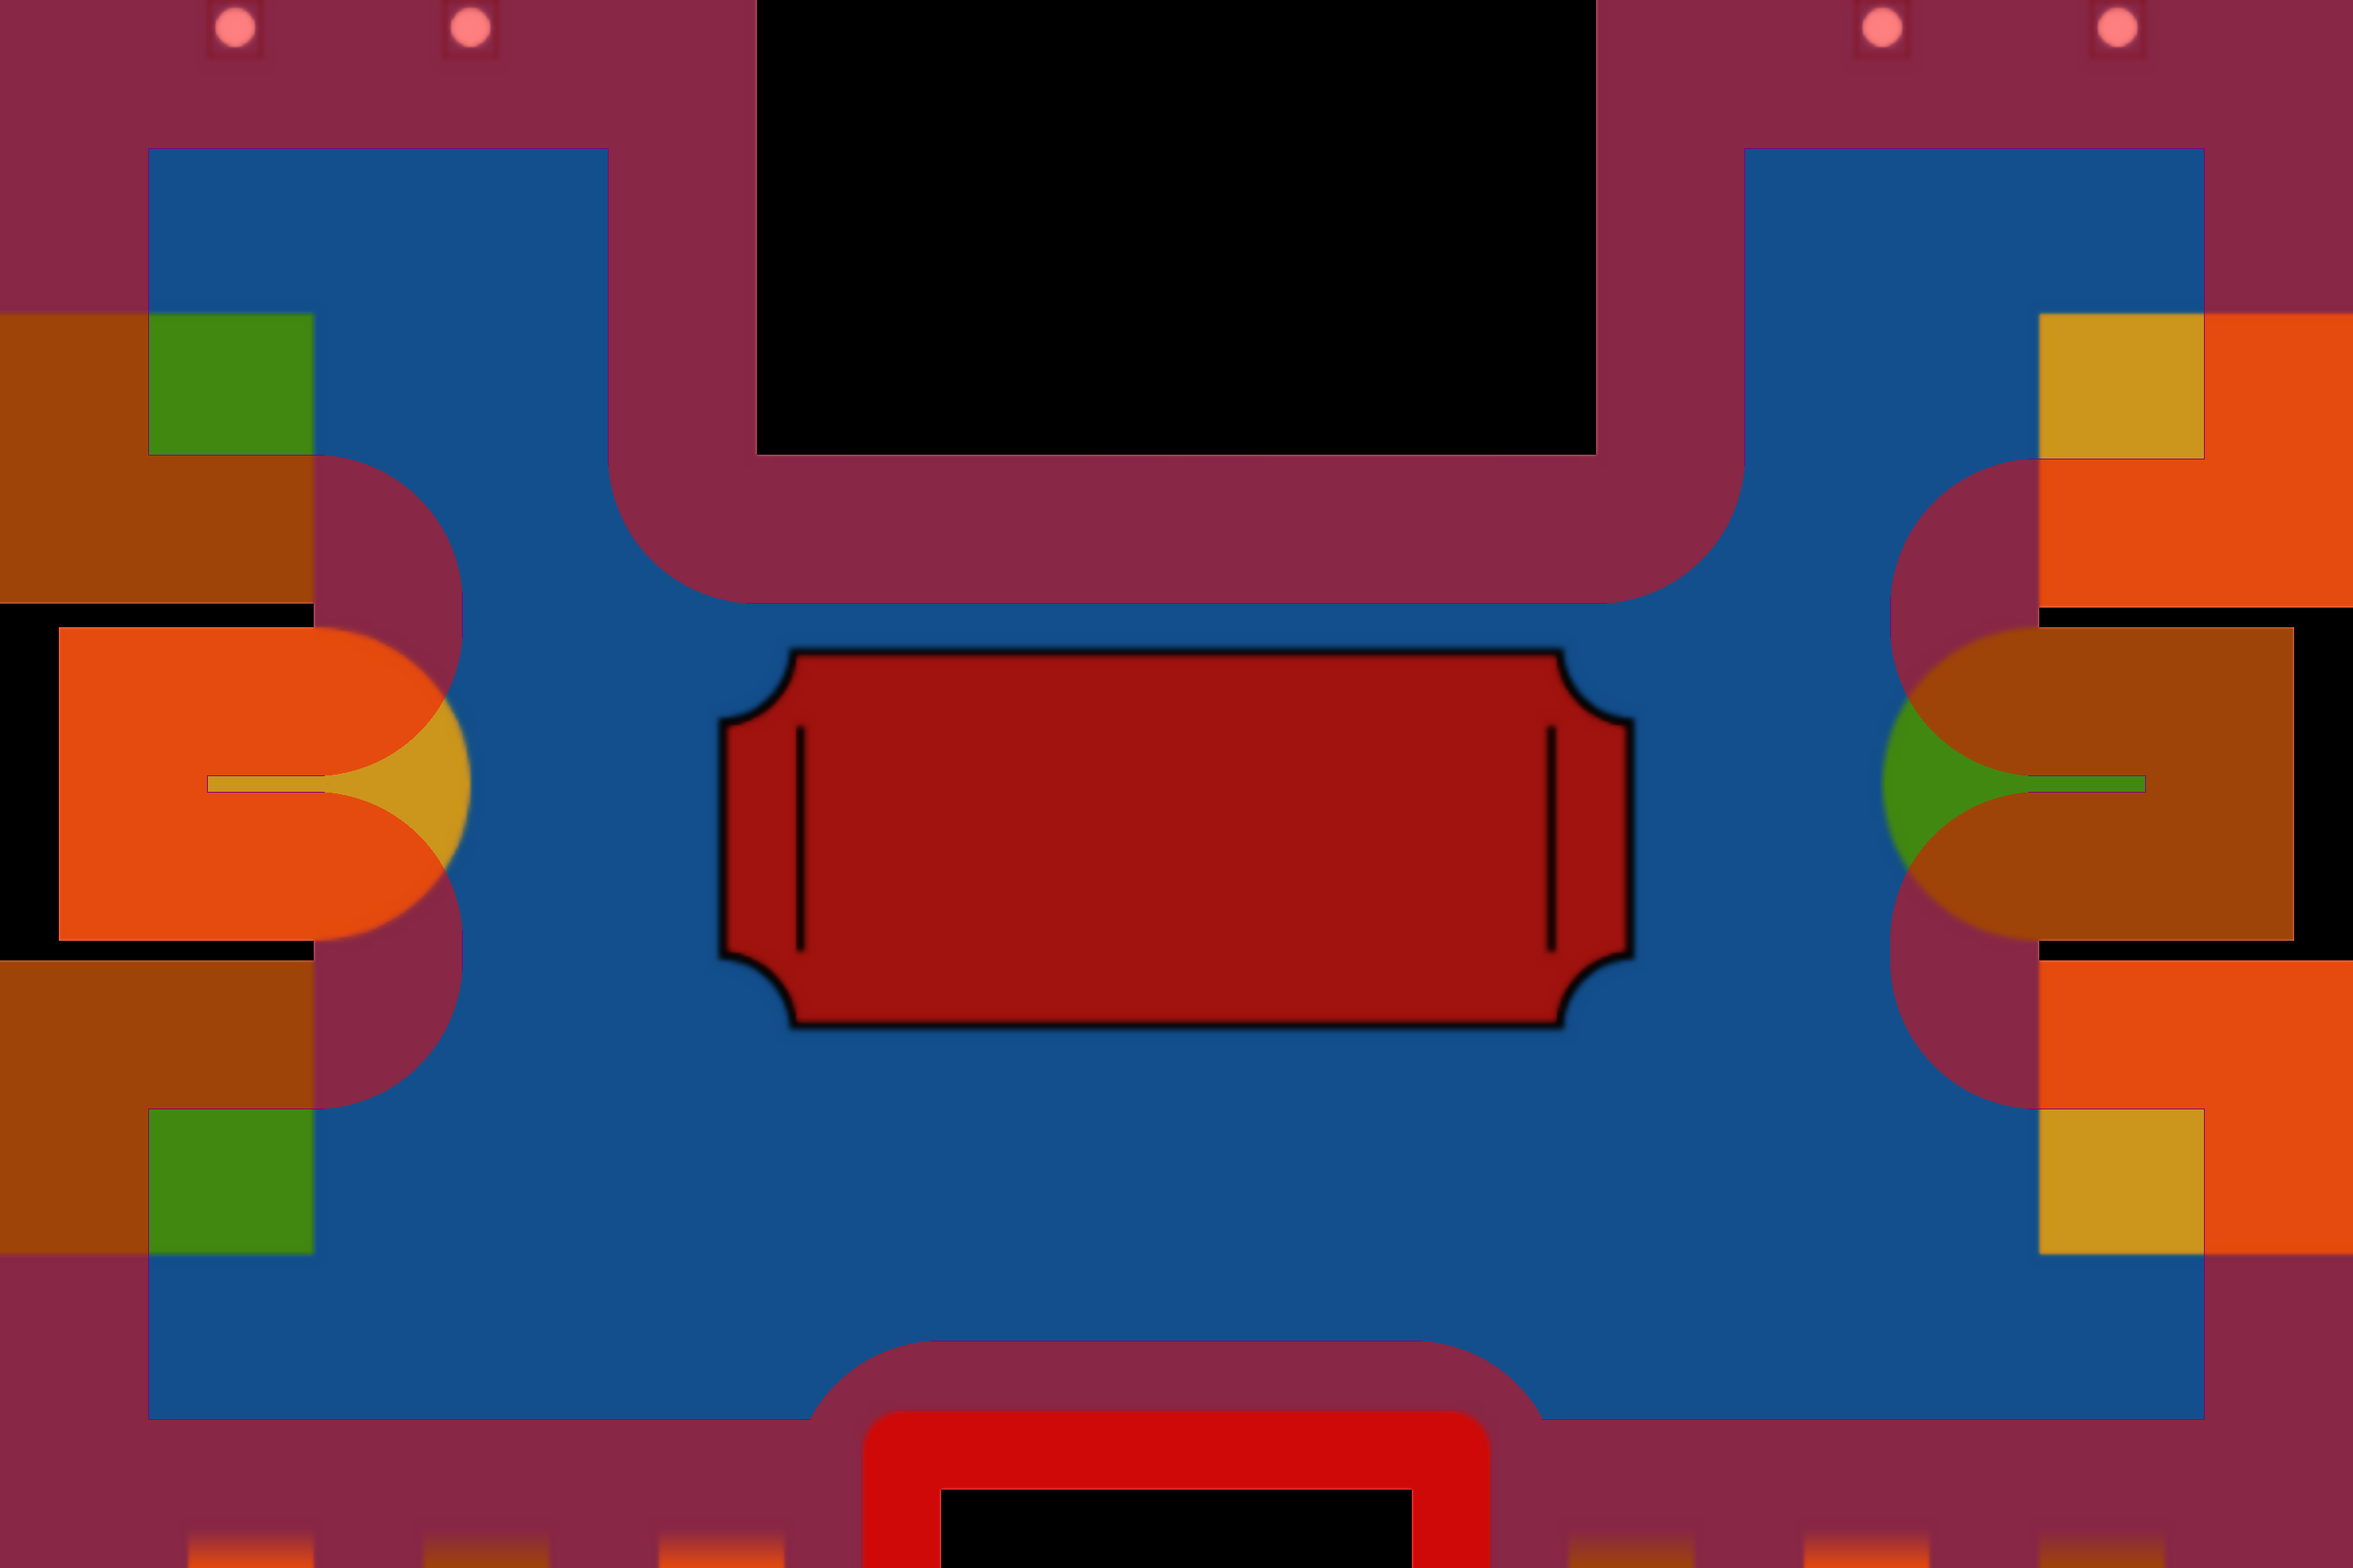
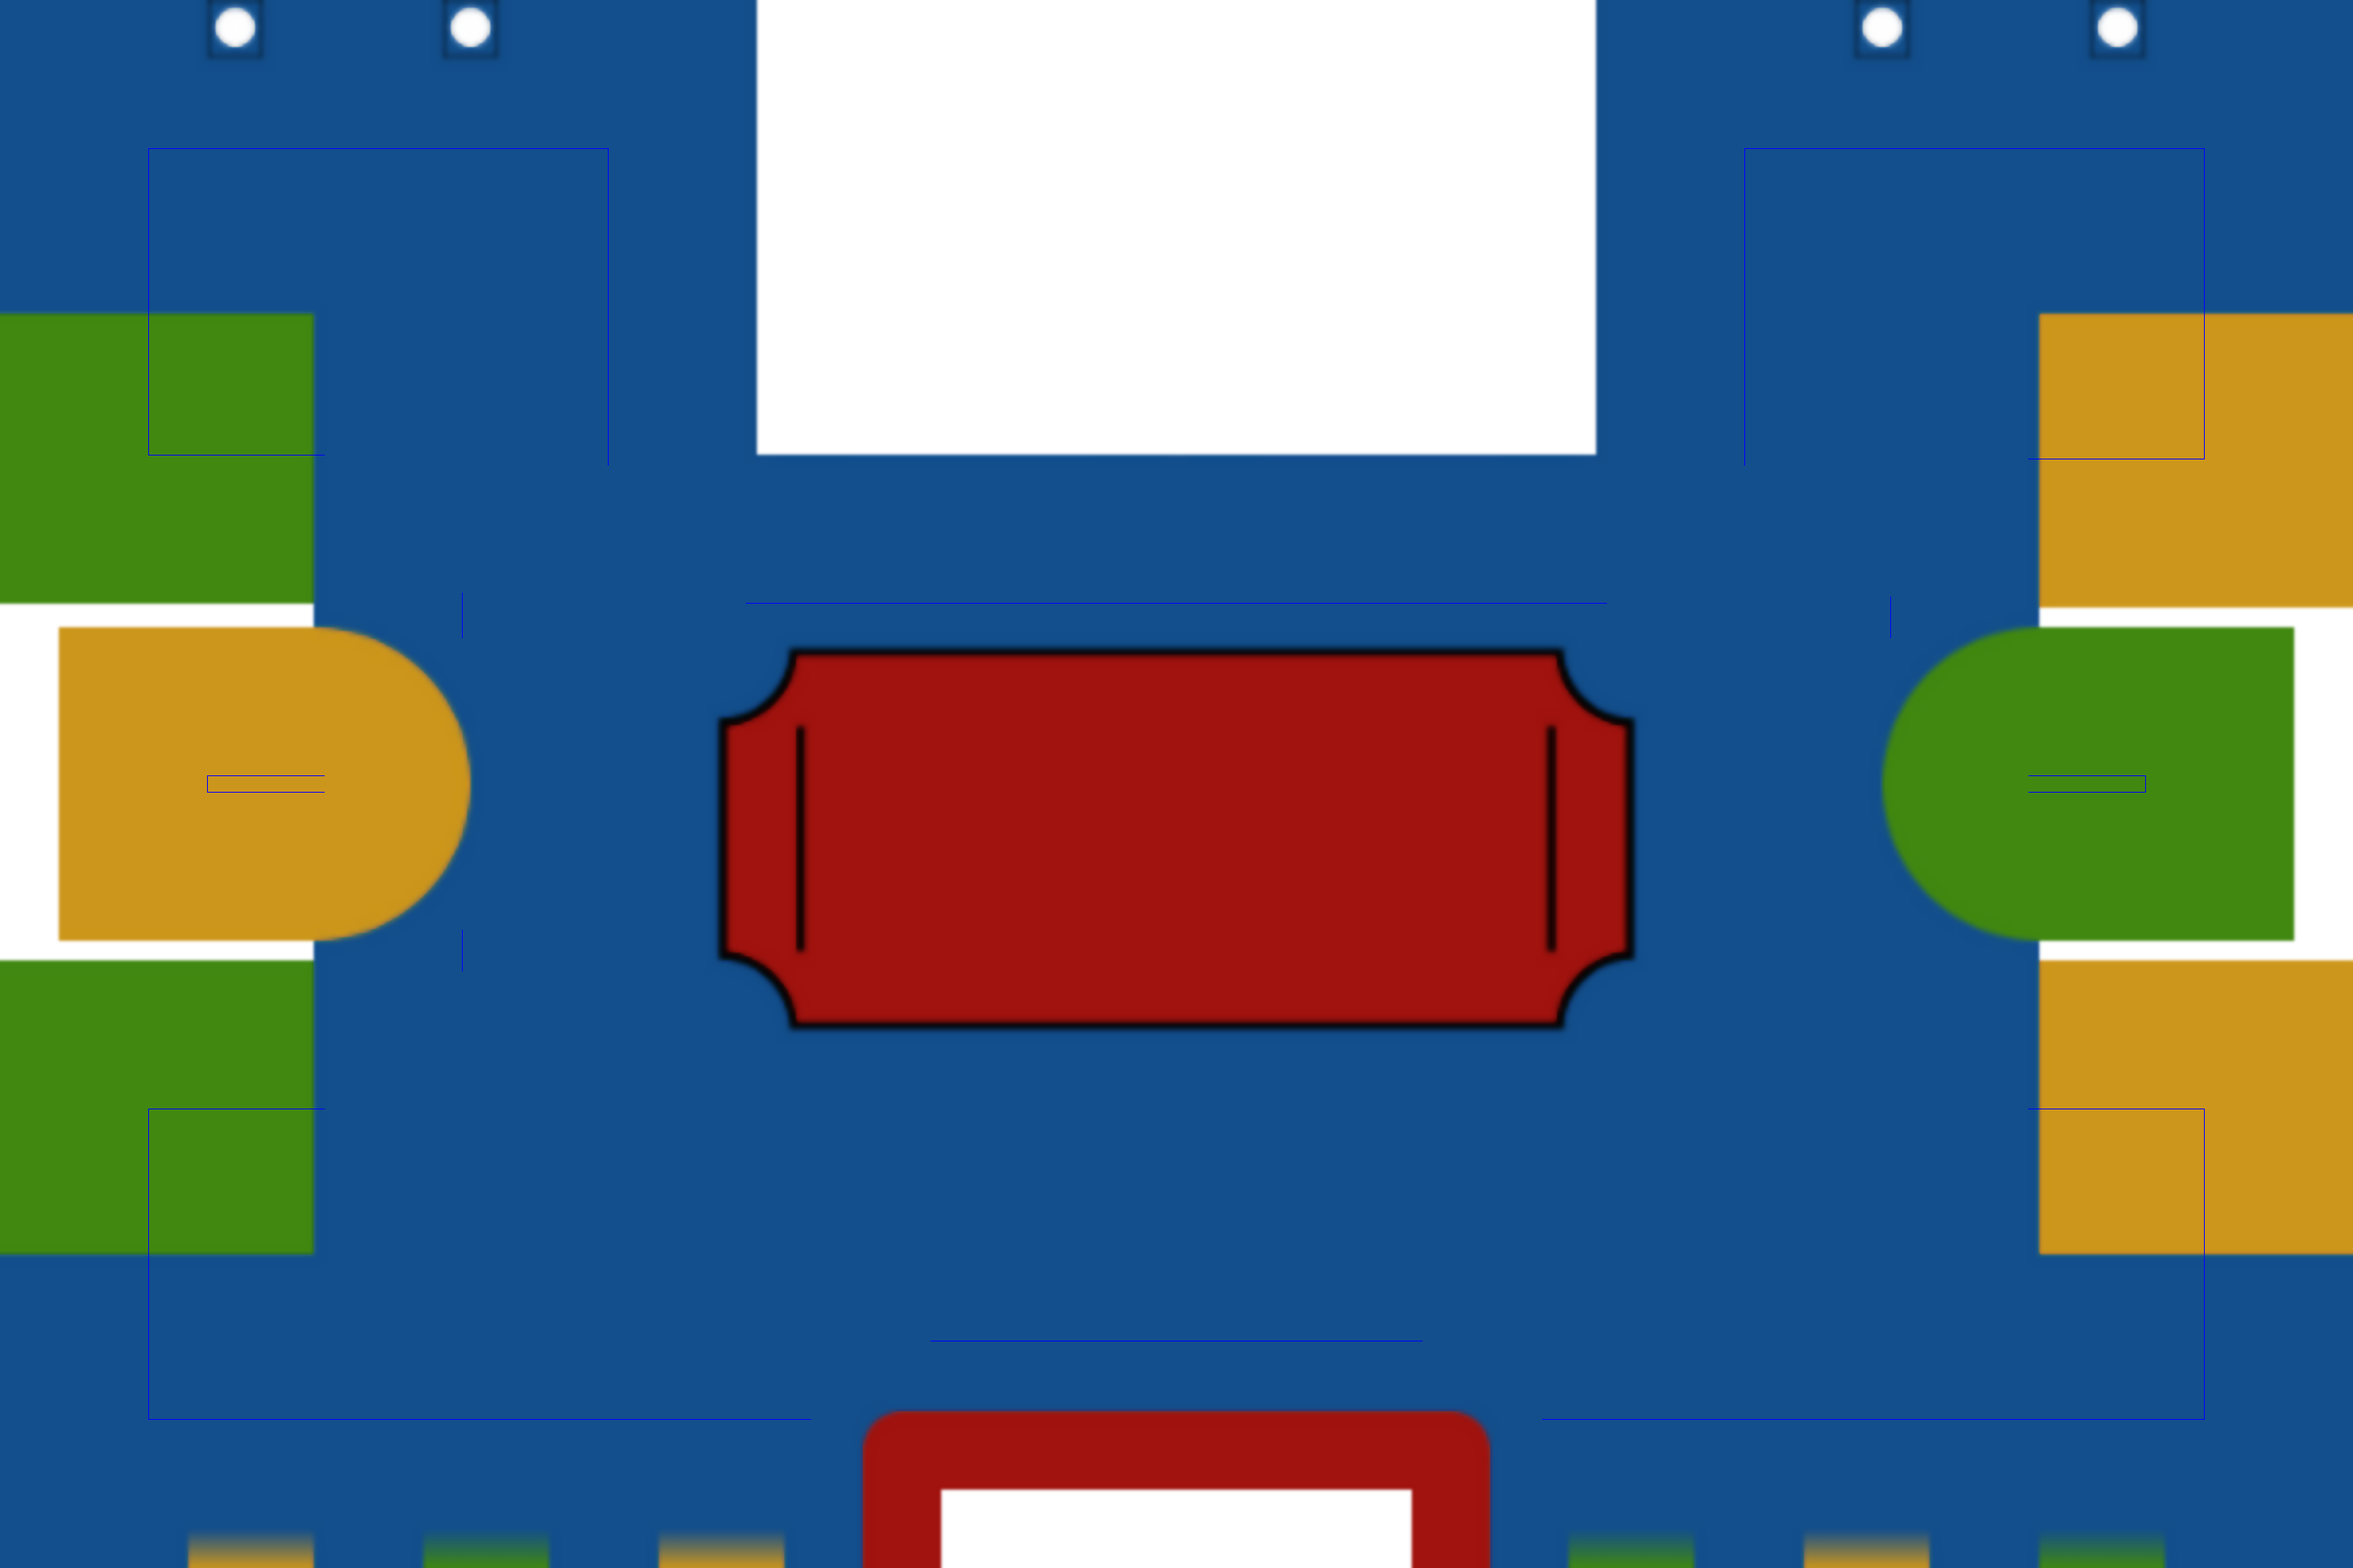
rajout de debug, résolution d'un bug

diff --git a/obstacles.c b/obstacles.c
@@ -24,9 +24,9 @@ const int obstacles[NOMBRE_OBSTACLES_STATIQUES][5]={
 
     // Marches (Gros robot)
     {0, TABLE_H,            967-ROBOT_R,    TABLE_H-580,        967-ROBOT_R},
-    {1, 580,                967, 0, 0},
+    {1, TABLE_H-580,        967, 0, 0},
     {0, TABLE_H-580-ROBOT_R,967,            TABLE_H-580-ROBOT_R,2033},
-    {1, 580,                2033, 0, 0},
+    {1, TABLE_H-580,        2033, 0, 0},
     {0, TABLE_H-580,        2033+ROBOT_R,   TABLE_H-580,        2033+ROBOT_R},
 
     // Zone de départ
@@ -58,6 +58,7 @@ const int obstacles[NOMBRE_OBSTACLES_STATIQUES][5]={
     {0, 1200,               400+ROBOT_R,    1222,               400+ROBOT_R},
     {1, 1222,               400, 0, 0},
     {0, 1222+ROBOT_R,       0,              1222+ROBOT_R,       400}
+    
 };
 
 // Fonctions d'initialisation
@@ -70,16 +71,19 @@ void addObstacleStatique(const int valeurs[], int i){
     Obstacle obstacle;
     coord point;
     obstacle.type   = valeurs[0];
-            point.x = valeurs[1];
-            point.y = valeurs[2];
+            point.y = valeurs[1];
+            point.x = valeurs[2];
     obstacle.point1 = point;
-            point.x = valeurs[3];
-            point.y = valeurs[4];
+            point.y = valeurs[3];
+            point.x = valeurs[4];
     obstacle.point2 = point;
 
     obstacle.rayon  = 0;
 
     ObstaclesStatiques[i]=obstacle;
+}
+Obstacle getObstacleStatique(int i) {
+    return ObstaclesStatiques[i];
 }
 
 
@@ -92,18 +96,15 @@ void addObstacleNonStatiqueRond(coord centre, int rayon) {
 }
 
 int passagePossible(coord a, coord b) {
-    printf("passage possible ?\n");
     int i;
     for (i = 0; i < NOMBRE_OBSTACLES_STATIQUES; ++i)
         if (conflitPassageObstacle(a, b, ObstaclesStatiques[i])) {
-            printf("erreur avec l'obstacle %d\n", i);
             return 0;
         }
     /*for (i = 0; i < nombreObstaclesNonStatiques; ++i)
         if (conflitPassageObstacle(a, b, ObstaclesNonStatiques[i]))
             return 0;
     */
-    printf("passage possible\n");
     return 1;
 }
 
@@ -113,7 +114,7 @@ int conflitPassageObstacle(coord a, coord b, Obstacle obstacle) {
             return collisionSegmentSegment(a, b, obstacle.point1, obstacle.point2);
             break;
         case 1:     // Cercle
-            return 0;//(distancePointSegment(a, b, obstacle.point1) <= ROBOT_R + obstacle.rayon);
+            return collisionSegmentCercle(a, b, obstacle.point1, ROBOT_R + obstacle.rayon);
             break;
         default:
             return 1;

diff --git a/debug/affichage.c b/debug/affichage.c
@@ -2,6 +2,7 @@
 #include <GL/gl.h>
 #include <GL/glu.h>
 #include <SOIL/SOIL.h>
+#include <math.h>
 #include "affichage.h"
 
 #define AFFICHAGE_DEBUG 0
@@ -26,8 +27,56 @@ void dessine_fond() {
     glEnd();
     SDL_GL_SwapBuffers(); // Mise à jour de l'écran
 }
+void add_trait(int x1, int y1,int x2, int y2) {
+    glMatrixMode( GL_MODELVIEW );
+    glLoadIdentity( );
 
-void dessine_passage(int type) {
+    glColor3ub(255,0,0);
+
+    glDisable(GL_TEXTURE_2D);
+    glBegin(GL_LINES);
+        glVertex2d(x1, y1);
+        glVertex2d(x2, y2);
+    glEnd();
+
+    glFlush();
+    SDL_GL_SwapBuffers(); // Mise à jour de l'écran
+
+}
+void add_circle(float cx, float cy, float r, int num_segments) 
+{ 
+    num_segments = 100;
+    glMatrixMode( GL_MODELVIEW );
+    glLoadIdentity( );
+    float theta = 2 * 3.1415926 / (float)(num_segments); 
+    float c = cosf(theta);//precalculate the sine and cosine
+    float s = sinf(theta);
+    float t;
+
+    float x = r;//we start at angle = 0 
+    float y = 0; 
+    
+    glBegin(GL_LINE_LOOP); 
+    int ii;
+    for( ii = 0; ii < num_segments; ii++) 
+    { 
+        glVertex2f(x + cx, y + cy);//output vertex 
+        
+        //apply the rotation matrix
+        t = x;
+        x = c * x - s * y;
+        y = s * t + c * y;
+    } 
+    glEnd(); 
+
+    glFlush();
+    SDL_GL_SwapBuffers(); // Mise à jour de l'écran
+}
+void add_passage_point(int x, int y, int type) {
+    glMatrixMode( GL_MODELVIEW );
+    glLoadIdentity( );
+    glTranslated(x, y, 0);
+
     if (type == 2)
         glColor3ub(255,0,0);
     else if (type == 3)
@@ -43,13 +92,6 @@ void dessine_passage(int type) {
         glVertex2d(+POINT_SIZE/2, +POINT_SIZE/2);
         glVertex2d(+POINT_SIZE/2, -POINT_SIZE/2);
     glEnd();
-}
-void add_passage_point(int x, int y, int type) {
-
-    glMatrixMode( GL_MODELVIEW );
-    glLoadIdentity( );
-    glTranslated(x, y, 0);
-    dessine_passage(type);
 
     glFlush();
     SDL_GL_SwapBuffers(); // Mise à jour de l'écran
@@ -86,7 +128,7 @@ int init_sdl_screen() {
     gluOrtho2D(0,WIDTH,0,HEIGHT);
 
     // Texture : plateau de jeu
-    texturePlateau = SOIL_load_OGL_texture("../plateau.png",
+    texturePlateau = SOIL_load_OGL_texture("debug/plateau.png",
         SOIL_LOAD_AUTO, SOIL_CREATE_NEW_ID, SOIL_FLAG_INVERT_Y);
     if (AFFICHAGE_DEBUG == 1 || texturePlateau == 0)
         printf("SOIL messages : '%s' (plateau.png)\n", SOIL_last_result());

diff --git a/geometrie.c b/geometrie.c
@@ -31,14 +31,43 @@ int collisionSegmentSegment(coord A, coord B, coord I, coord P){
     return 1;
 }
 
-int distanceCercleSegment() {
-    return 10000;
+int collisionDroiteCercle(coord A, coord B, coord C, float rayon) {
+    coord u;
+    u.x = B.x - A.x;
+    u.y = B.y - A.y;
+    coord AC;
+    AC.x = C.x - A.x;
+    AC.y = C.y - A.y;
+    float numerateur = u.x*AC.y - u.y*AC.x;   // norme du vecteur v
+    if (numerateur <0)
+        numerateur = -numerateur ;   // valeur absolue ; si c'est négatif, on prend l'opposé.
+    float denominateur = sqrt(u.x*u.x + u.y*u.y);  // norme de u
+    float CI = numerateur / denominateur;
+    
+    return CI<rayon;
 }
+int collisionPointCercle(coord A, coord C, float rayon) {
+    return distance(A, C) <= rayon;
+}
+int collisionSegmentCercle(coord A, coord B, coord C, float rayon){
+    if (!collisionDroiteCercle(A, B, C, rayon))
+        return 0;  // si on ne touche pas la droite, on ne touchera jamais le segment
+    coord AB, AC, BC;
+    AB.x = B.x - A.x;
+    AB.y = B.y - A.y;
+    AC.x = C.x - A.x;
+    AC.y = C.y - A.y;
+    BC.x = C.x - B.x;
+    BC.y = C.y - B.y;
 
-
-
-float distancePointSegment(coord segment1, coord segment2, coord point){
-
+    float pscal1 = AB.x*AC.x + AB.y*AC.y;  // produit scalaire
+    float pscal2 = (-AB.x)*BC.x + (-AB.y)*BC.y;  // produit scalaire
+    if (pscal1>=0 && pscal2>=0)
+        return 1;   // I entre A et B, ok.
+    // dernière possibilité, A ou B dans le cercle
+    if (collisionPointCercle(A, C, rayon))
+        return 1;
+    if (collisionPointCercle(B, C, rayon))
+        return 1;
     return 0;
-
 }

diff --git a/pathfinding.c b/pathfinding.c
@@ -16,6 +16,16 @@ void pathfinding_init() {
     addAllObstaclesStatiques();
     init_sdl_screen();
     dessine_fond();
+    int i;
+    for (i = 0; i < NOMBRE_OBSTACLES_STATIQUES; ++i) {
+        Obstacle obstacle = getObstacleStatique(i);
+        if (obstacle.type == 0)
+            add_trait(obstacle.point1.x, obstacle.point1.y, obstacle.point2.x, obstacle.point2.y);
+        else {
+            printf("%d, %d\n", obstacle.point1.x, obstacle.point1.y);
+            add_circle(obstacle.point1.x, obstacle.point1.y, obstacle.rayon + ROBOT_R, 20);
+        }
+    }
 }
 
 
@@ -70,6 +80,9 @@ void pathfinding(coord start, coord cible) {
 
         int voisinId;
         for (voisinId = 0; voisinId < 4; ++voisinId) {
+            int i=0;
+            while(++i<2000000);
+            //printf("go\n");
             Point voisin = getVoisin(visiting, voisinId);
             if (!passagePossible(visiting.coord, voisin.coord))
                 continue;

diff --git a/pointList.c b/pointList.c
@@ -57,6 +57,6 @@ void list_printf(PointList *list) {
     for (i = 0; i < list->size; ++i) {
         current = list_get(list, i);
 
-        printf("%2d : x%d - y%d ; gS %9.5f - fS %9.5f\n", i, current.coord.x, current.coord.y, current.gScore, current.fScore);
+        printf("%2d : x%4d - y%4d ; gS %9.5f - fS %9.5f\n", i, current.coord.x, current.coord.y, current.gScore, current.fScore);
     }
 }

diff --git a/obstacles.h b/obstacles.h
@@ -13,8 +13,10 @@ typedef _Obstacle Obstacle;
 // Gestion des obstacles
 void addAllObstaclesStatiques();
 void addObstacleStatique(const int valeurs[], int i);
+Obstacle getObstacleStatique(int i);
 
 #define NOMBRE_OBSTACLES_STATIQUES 34
+//34
 
 // Gestion des obstacles non statiques (plots, etc, gérés par la stratégie)
 void addObstacleNonStatiqueRond(coord centre, int rayon);

diff --git a/geometrie.h b/geometrie.h
@@ -23,7 +23,6 @@ float distance_heuristique(coord a, coord b);
 
 int collisionSegmentSegment(coord A, coord B, coord I, coord P);
 
-float distancePointSegment(coord segment1, coord segment2, coord point);
-
+int collisionSegmentCercle(coord A, coord B, coord C, float rayon);
 
 #endif // GEOMETRIE_H

diff --git a/debug/affichage.h b/debug/affichage.h
@@ -12,6 +12,8 @@
 void dessine_fond();
 
 void set_position(int x, int y, int alpha);
+void add_circle(float cx, float cy, float r, int num_segments);
+void add_trait(int x1, int y1,int x2, int y2);
 void add_passage_point(int x, int y, int type);
 int sdl_manage_events();
 int init_sdl_screen();

diff --git a/main.c b/main.c
@@ -19,10 +19,10 @@ int main() {
 
     coord a;
     coord b;
-    a.x = 400;
-    a.y = 1700;
-    b.x = 2600;
-    b.y = 1700;
+    a.x = 300;
+    a.y = 2000-300;
+    b.x = 3000-300;
+    b.y = 2000-300;
 
     pathfinding(a,b);
     PointList cheminFinal = reconstruct_path();
